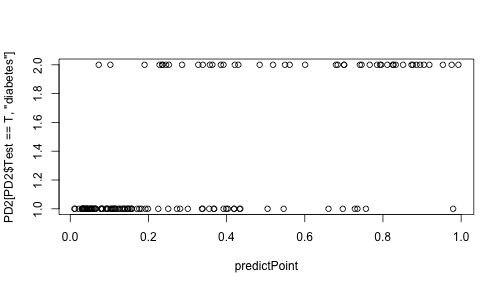
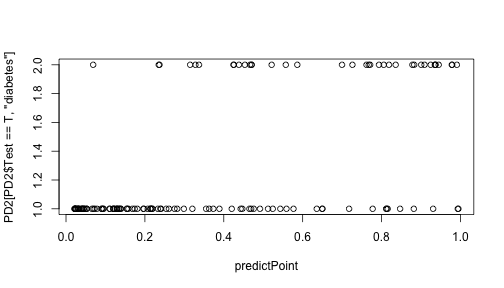
confu

diff --git a/05DataMining.md b/05DataMining.md
@@ -529,7 +529,7 @@ sample(1:10,3) # 從1到10，隨機取三個數字
 ```
 
 ```
-[1]  4 10  3
+[1] 2 4 5
 ```
 
 ```r
@@ -538,14 +538,14 @@ sample(1:nrow(PD2),nrow(PD2)/3)
 ```
 
 ```
-  [1]  16 258 323 380 378  76  23  60 355 155 221  47 129 114  26  67 139
- [18] 185 317 190 259 165 232 188 163  52 215  86  20 143 214 321 267 266
- [35] 123 341 320 182 376  37 230 295 204 280  21  72 346 289 113  32  13
- [52] 151 248 254  56  28 249 319 272  41 352 338  80 108  22  42 357 167
- [69] 111   4  15 358 244 169 377 172 271  81 332 110 228 250  10 383  66
- [86] 299 104 195 372 198 390 208 386  17 183 189  11 277 262  99 350 316
-[103] 269 305 241 261 159 330  18  58  40 359  38 135 122  73  82 209  30
-[120] 149 284 150 160  43  59  90 236  19 347 112
+  [1]  71  23 132 189 212 106 371 272 119 150 222 342 291 264   5  53 377
+ [18]   8   9 302 344 320 316 183 357  24  90  52 317 200 237  12  57 347
+ [35] 201 259 233  36  93 314  88  18 191  64 341  30  74 284 255  62 319
+ [52] 287 240 218 310  38 238 145 289 367 176 266 208 163  99  82 244 213
+ [69] 350 193 129 152 151  75  16 269 178  89 203 339 196 230  43 251 338
+ [86]  97 331  66 134 180  32  21 379 225 130 219  13 116 333 242 270 369
+[103]  94 131   6 171 245 195 118 274 146 380 124 243  39 329 332 108  92
+[120] 155 227 295  28 294  73 252   7  11  41 356
 ```
 
 Regression 迴歸驗證：資料分組
@@ -579,15 +579,15 @@ summary(fit)$coefficients
 
 ```
                  Estimate  Std. Error    z value     Pr(>|z|)
-(Intercept) -9.9673809074 1.461976175 -6.8177451 9.248054e-12
-pregnant     0.0188997459 0.068035000  0.2777945 7.811701e-01
-glucose      0.0339660944 0.006666633  5.0949401 3.488516e-07
-pressure     0.0037086199 0.014381274  0.2578784 7.965008e-01
-triceps      0.0159020598 0.021798813  0.7294920 4.657008e-01
-insulin     -0.0004627323 0.001604950 -0.2883158 7.731050e-01
-mass         0.0675409708 0.033461573  2.0184637 4.354299e-02
-pedigree     1.1115898767 0.546180311  2.0352068 4.183007e-02
-age          0.0420746603 0.024519038  1.7159996 8.616211e-02
+(Intercept) -1.185872e+01 1.673784853 -7.0849741 1.390703e-12
+pregnant     3.296113e-02 0.071865042  0.4586532 6.464833e-01
+glucose      3.578074e-02 0.007157492  4.9990609 5.761022e-07
+pressure     1.365068e-02 0.015274587  0.8936855 3.714902e-01
+triceps     -7.918960e-04 0.020939160 -0.0378189 9.698321e-01
+insulin     -8.006929e-05 0.001731966 -0.0462303 9.631267e-01
+mass         9.860865e-02 0.035397918  2.7857188 5.340918e-03
+pedigree     1.740402e+00 0.536235436  3.2455923 1.172066e-03
+age          4.679623e-02 0.023200552  2.0170310 4.369228e-02
 ```
 
 Regression 迴歸驗證：逐步選擇模型
@@ -606,12 +606,12 @@ summary(finalModel_B)$coefficients
 ```
 
 ```
-               Estimate Std. Error   z value     Pr(>|z|)
-(Intercept) -9.87918190 1.29952697 -7.602137 2.912804e-14
-glucose      0.03310722 0.00582186  5.686708 1.295115e-08
-mass         0.08311826 0.02464931  3.372032 7.461574e-04
-pedigree     1.12006482 0.54371734  2.060013 3.939729e-02
-age          0.04917994 0.01693850  2.903442 3.690856e-03
+                Estimate  Std. Error   z value     Pr(>|z|)
+(Intercept) -11.23404803 1.458902945 -7.700340 1.357051e-14
+glucose       0.03584490 0.006327297  5.665120 1.469216e-08
+mass          0.10062150 0.026663611  3.773739 1.608192e-04
+pedigree      1.68311571 0.529137888  3.180864 1.468365e-03
+age           0.05862978 0.016966361  3.455648 5.489707e-04
 ```
 
 Regression 迴歸驗證：逐步選擇模型
@@ -628,12 +628,12 @@ summary(finalModel_Both)$coefficients
 ```
 
 ```
-               Estimate Std. Error   z value     Pr(>|z|)
-(Intercept) -9.87918190 1.29952697 -7.602137 2.912804e-14
-glucose      0.03310722 0.00582186  5.686708 1.295115e-08
-mass         0.08311826 0.02464931  3.372032 7.461574e-04
-pedigree     1.12006482 0.54371734  2.060013 3.939729e-02
-age          0.04917994 0.01693850  2.903442 3.690856e-03
+                Estimate  Std. Error   z value     Pr(>|z|)
+(Intercept) -11.23404803 1.458902945 -7.700340 1.357051e-14
+glucose       0.03584490 0.006327297  5.665120 1.469216e-08
+mass          0.10062150 0.026663611  3.773739 1.608192e-04
+pedigree      1.68311571 0.529137888  3.180864 1.468365e-03
+age           0.05862978 0.016966361  3.455648 5.489707e-04
 ```
 
 Regression 迴歸驗證：模型驗證
@@ -655,8 +655,8 @@ table(x=DMAns,
 ```
    y
 x   neg pos
-  0  76  18
-  1   8  28
+  0  75  13
+  1  18  24
 ```
 
 Regression 迴歸驗證：模型驗證
@@ -709,8 +709,8 @@ table(x=DMAns,
 ```
    y
 x   neg pos
-  0  76  18
-  1   8  28
+  0  75  13
+  1  18  24
 ```
 ![plot of chunk unnamed-chunk-19](figures/para.png)
 
@@ -740,7 +740,7 @@ sensitivity(DMAns,
 ```
 
 ```
-[1] 0.6086957
+[1] 0.6486486
 ```
 
 ```r
@@ -750,7 +750,7 @@ specificity(DMAns,
 ```
 
 ```
-[1] 0.9047619
+[1] 0.8064516
 ```
 
 效能指標
@@ -764,7 +764,7 @@ posPredValue(DMAns,
 ```
 
 ```
-[1] 0.7777778
+[1] 0.5714286
 ```
 
 ```r
@@ -774,7 +774,7 @@ negPredValue(DMAns,
 ```
 
 ```
-[1] 0.8085106
+[1] 0.8522727
 ```
 
 預測模型建立與驗證綜合練習
@@ -1018,16 +1018,16 @@ CART
 
 No pre-processing
 Resampling: Cross-Validated (10 fold, repeated 10 times) 
-Summary of sample sizes: 266, 265, 265, 266, 266, 265, ... 
+Summary of sample sizes: 266, 266, 265, 265, 266, 266, ... 
 Resampling results across tuning parameters:
 
-  cp     ROC        Sens       Spec 
-  0.060  0.7337447  0.8405263  0.596
-  0.075  0.6982645  0.8433421  0.536
-  0.360  0.5503026  0.9756053  0.125
+  cp          ROC        Sens       Spec     
+  0.05882353  0.7237455  0.8945263  0.5355455
+  0.07843137  0.6864157  0.9060000  0.4621818
+  0.36274510  0.5652632  0.9685263  0.1620000
 
 ROC was used to select the optimal model using  the largest value.
-The final value used for the model was cp = 0.06. 
+The final value used for the model was cp = 0.05882353. 
 ```
 
 caret: evaluation
@@ -1045,12 +1045,18 @@ knitr::kable(head(pred))
 
 |   |       neg|       pos|
 |:--|---------:|---------:|
-|17 | 0.8392857| 0.1607143|
-|33 | 0.9090909| 0.0909091|
-|36 | 0.3809524| 0.6190476|
-|41 | 0.9090909| 0.0909091|
-|52 | 0.9090909| 0.0909091|
-|69 | 0.3809524| 0.6190476|
+|25 | 0.7956522| 0.2043478|
+|36 | 0.7956522| 0.2043478|
+|41 | 0.1636364| 0.8363636|
+|52 | 0.7956522| 0.2043478|
+|54 | 0.1636364| 0.8363636|
+|70 | 0.7956522| 0.2043478|
+
+效能指標名詞解釋
+====================================
+![plot of chunk unnamed-chunk-36](figures/para.png)
+- TP: 有病且預測也有病    FP: 沒病但是預測有病
+- TN: 沒病且預測也沒病    FN: 有病但預測沒病
 
 caret: evaluation
 ====================================
@@ -1067,25 +1073,25 @@ Confusion Matrix and Statistics
 
           Reference
 Prediction neg pos
-       neg  53   8
-       pos  11  25
+       neg  58  20
+       pos   6  13
                                           
-               Accuracy : 0.8041          
-                 95% CI : (0.7111, 0.8778)
+               Accuracy : 0.732           
+                 95% CI : (0.6324, 0.8168)
     No Information Rate : 0.6598          
-    P-Value [Acc > NIR] : 0.001307        
+    P-Value [Acc > NIR] : 0.07990         
                                           
-                  Kappa : 0.5731          
- Mcnemar's Test P-Value : 0.646355        
+                  Kappa : 0.3346          
+ Mcnemar's Test P-Value : 0.01079         
                                           
-            Sensitivity : 0.8281          
-            Specificity : 0.7576          
-         Pos Pred Value : 0.8689          
-         Neg Pred Value : 0.6944          
+            Sensitivity : 0.9062          
+            Specificity : 0.3939          
+         Pos Pred Value : 0.7436          
+         Neg Pred Value : 0.6842          
              Prevalence : 0.6598          
-         Detection Rate : 0.5464          
-   Detection Prevalence : 0.6289          
-      Balanced Accuracy : 0.7929          
+         Detection Rate : 0.5979          
+   Detection Prevalence : 0.8041          
+      Balanced Accuracy : 0.6501          
                                           
        'Positive' Class : neg             
                                           
